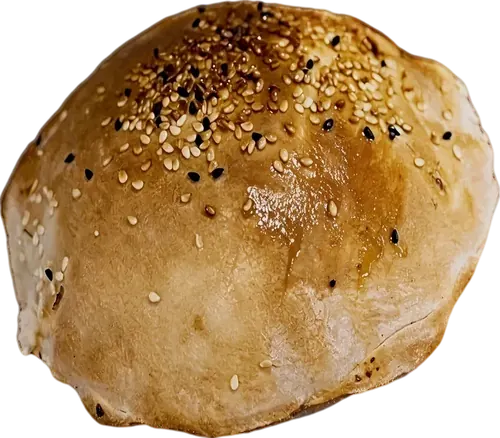
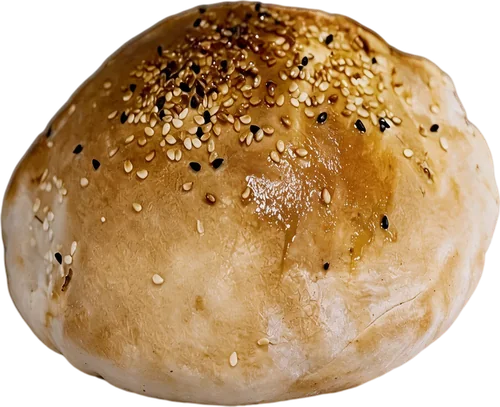
feat: alle neun Gerichte neu aufgenommen, Maeuler kleiner, Hierarchie gedreht
Karol am 07.09.: „bitte verbessere die Gerichte im Hintergrund einfach. Bitte,
bitte! … die Oefen koennte man vielleicht ein bisschen kleiner machen, damit
man die Produkte im Hintergrund ein bisschen mehr sieht … die Schriftart unter
den Oefen auch anpassen groessentechnisch."

DIE GERICHTE. Die restlichen sechs ueber `seedream_v5_pro` mit `is_inpaint`
und `remove_bg` neu aufgenommen. Vier auf Anhieb gut, zwei verworfen und neu
angesetzt:

    Produkt      Schaerfe        Kante       Farbabstand   Umriss-IoU
    zaatar-2     2676 -> 4285    49 % -> 49 %       13,0      99,6 %
    stapel       1732 -> 2269    62 % -> 52 %        8,3      89,4 %
    rolle        1676 -> 1722    49 % -> 39 %        5,9      94,2 %
    sesam         861 ->  957    47 % -> 47 %       20,3      99,7 %
    gebacken     1302 -> 1100    44 % -> 43 %       20,6      94,1 %

zaatar-2 im ersten Anlauf: Farbabstand 55,4, der Zaatar war dunkel und
fleckig geworden. Der zweite Wortlaut verbietet ausdruecklich „darken, patchy,
blotchy, specular highlight" und kommt auf 13,0 bei fast vervierfachter
Schaerfe.

`bleche` ist RAUS. Seine Quelle war ein misslungener Freisteller — das rechte
Blech zur Haelfte Ofeninneres. Zwei Anlaeufe machten daraus einmal ein
dupliziertes und einmal ein leeres Blech (IoU 65 % und 67 %). Wo die Vorlage
nicht traegt, hilft kein Modell; das Stueck war ohnehin eines der beiden
Nachzuegler. Bleiben neun plus vier Wiederholungen.
[…]

diff --git a/src/gebaecke.ts b/src/gebaecke.ts
@@ -150,12 +150,17 @@ export type Gebaeck = {
    * ═══ Und woher der Wert kommt ═══
    *
    * Nicht aus dem Gefuehl, sondern aus der GEMESSENEN Schaerfe des Fotos.
-   * Stand nach der Ueberarbeitung mit seedream am 07.09. (Laplace-Varianz im
+   * Stand nach der zweiten Runde mit seedream am 08.09. (Laplace-Varianz im
    * deckenden Bereich, bei gleicher Darstellgroesse):
    *
-   *     lahmacun 4551 · zaatar 3893 · zaatar-2 2676 · bleche 2168
-   *     fatayer 1858 · stapel 1732 · rolle 1676 · gebacken 1302
-   *     kaese 1143 · sesam 861
+   *     lahmacun 4551 · zaatar-2 4285 · zaatar 3893 · stapel 2269
+   *     fatayer 1858 · rolle 1722 · kaese 1143 · gebacken 1100 · sesam 957
+   *
+   * Alle NEUN sind inzwischen ueber `is_inpaint` neu aufgenommen. Das zehnte
+   * hiess `bleche` und ist RAUS: seine Quelle war ein misslungener Freisteller
+   * (das rechte Blech halb Ofeninneres), und zwei Anlaeufe haben daraus einmal
+   * ein dupliziertes und einmal ein leeres Blech gemacht. Wo die Vorlage nicht
+   * traegt, hilft kein Modell.
    *
    * Verteilt wird nach RANG, nicht nach Rohwert. Die vier ueberarbeiteten
    * Stuecke haben ihre Schaerfe verdoppelt bis vervierfacht; nach Rohwert
@@ -291,8 +296,8 @@ export const GEBAECKE: Gebaeck[] = [
     alt: 'Ein Fata’er von Aram, gewölbt und glänzend, dicht mit Sesam und Schwarzkümmel bestreut',
     li: 3,
     ob: 6,
-    gr: 21,
-    tiefe: 0.44,
+    gr: 20,
+    tiefe: 0.5,
     liM: 58,
     grM: 52,
     breite: 900,
@@ -316,12 +321,12 @@ export const GEBAECKE: Gebaeck[] = [
     alt: 'Ein goldbraun gebackenes gefuelltes Gebaeck von Aram, die Fuellung tritt an den Einschnitten hervor',
     li: 70,
     ob: 20,
-    gr: 18,
-    tiefe: 0.67,
+    gr: 19,
+    tiefe: 0.62,
     liM: 72,
     grM: 48,
-    breite: 780,
-    hoehe: 574,
+    breite: 900,
+    hoehe: 669,
     y: [0.34, -0.48],
     x: [0.03, -0.06],
     dreh: [25, -36],
@@ -362,8 +367,8 @@ export const GEBAECKE: Gebaeck[] = [
     alt: 'Ein Manakisch mit Zaatar, frisch aus dem Ofen',
     li: 78,
     ob: 48,
-    gr: 26,
-    tiefe: 0.11,
+    gr: 24,
+    tiefe: 0.25,
     liM: 76,
     grM: 38,
     breite: 900,
@@ -385,12 +390,12 @@ export const GEBAECKE: Gebaeck[] = [
     alt: 'Ein zweites Manakisch mit Zaatar',
     li: 4,
     ob: 62,
-    gr: 24,
-    tiefe: 0.22,
+    gr: 25,
+    tiefe: 0.12,
     liM: 74,
     grM: 36,
-    breite: 780,
-    hoehe: 691,
+    breite: 900,
+    hoehe: 850,
     y: [0.44, -0.22],
     x: [-0.03, 0.07],
     dreh: [-22, 45],
@@ -412,8 +417,8 @@ export const GEBAECKE: Gebaeck[] = [
     tiefe: 1.0,
     liM: 60,
     grM: 50,
-    breite: 780,
-    hoehe: 761,
+    breite: 900,
+    hoehe: 893,
     y: [0.4, -0.34],
     x: [0.04, -0.08],
     dreh: [31, -39],
@@ -431,12 +436,12 @@ export const GEBAECKE: Gebaeck[] = [
     alt: 'Ein flacher, goldbraun gebackener Fata’er mit Sesam',
     li: 34,
     ob: 84,
-    gr: 17,
-    tiefe: 0.78,
+    gr: 16,
+    tiefe: 0.88,
     liM: 78,
     grM: 34,
-    breite: 780,
-    hoehe: 684,
+    breite: 900,
+    hoehe: 733,
     y: [0.5, -0.2],
     x: [-0.06, 0.04],
     dreh: [-28, 34],
@@ -454,8 +459,8 @@ export const GEBAECKE: Gebaeck[] = [
     alt: 'Ein runder Fladen von Aram, dick mit geschmolzenem Kaese belegt',
     li: 84,
     ob: 92,
-    gr: 15,
-    tiefe: 0.89,
+    gr: 17,
+    tiefe: 0.75,
     liM: 56,
     grM: 48,
     breite: 875,
@@ -469,55 +474,20 @@ export const GEBAECKE: Gebaeck[] = [
     skala: [0.56, 0.72],
   },
   {
-    /* ═══ Zwei Stuecke mehr, und warum es nicht mehr wurden ═══
-
-       Karol am 07.09.: „wie wir da die ganzen einzelnen Produkte im
-       Hintergrund dazumachen." Ich habe alle 54 Freisteller aus ihrem
-       Material durchgemessen. Von den zwoelf schaerfsten sind die meisten
-       Ofeninnenraeume, Menschen oder misslungene Schnitte — brauchbar und neu
-       waren genau diese zwei. Die acht davor sind im Wesentlichen schon das
-       Beste, was Aram geliefert hat.
-
-       Mehr Dichte kommt deshalb nicht aus mehr Dateien, sondern aus der
-       Tiefe: was hinten fliegt, ist klein und unscharf, und dort faellt
-       weder eine schwache Aufnahme noch eine Wiederholung auf. */
-    id: 'bleche',
-    dampft: false,
-    name: 'Zwei Bleche',
-    bilder: ['/bilder/echt/schwarm-bleche.webp'],
-    echt: true,
-    alt: 'Zwei runde Bleche mit frisch gebackenem Gebäck aus dem Laden',
-    li: 46,
-    ob: 30,
-    gr: 23,
-    tiefe: 0.33,
-    liM: 64,
-    grM: 40,
-    breite: 780,
-    hoehe: 438,
-    y: [0.46, -0.3],
-    x: [0.05, -0.06],
-    dreh: [18, -14],
-    drehY: [24, -20],
-    drehX: [-9, 7],
-    z: [-190, 60],
-    skala: [0.9, 1.02],
-  },
-  {
     id: 'stapel',
-    dampft: false,
+    dampft: true,
     name: 'Fladenstapel',
     bilder: ['/bilder/echt/schwarm-stapel.webp'],
     echt: true,
     alt: 'Ein hoher Stapel gebackener Fladen aus der Backstube',
     li: 24,
     ob: 68,
-    gr: 20,
-    tiefe: 0.56,
+    gr: 22,
+    tiefe: 0.38,
     liM: 30,
     grM: 34,
-    breite: 438,
-    hoehe: 780,
+    breite: 518,
+    hoehe: 900,
     y: [0.42, -0.28],
     x: [-0.05, 0.05],
     dreh: [-12, 16],
@@ -621,8 +591,8 @@ export const GEBAECKE: Gebaeck[] = [
     nurBreit: true,
     liM: 50,
     grM: 30,
-    breite: 780,
-    hoehe: 574,
+    breite: 900,
+    hoehe: 669,
     y: [0.44, -0.29],
     x: [-0.04, 0.05],
     dreh: [-18, 14],

diff --git a/src/stile/sektionen.css b/src/stile/sektionen.css
@@ -1768,7 +1768,11 @@
  */
 .tor__maul {
   position: relative;
-  height: calc(var(--wand-hoehe, 34rem) * 0.74 * var(--anteil, 1));
+  /* 0,64 statt 0,74. Karol am 07.09.: „die Oefen koennte man vielleicht ein
+     bisschen kleiner machen, damit man die Produkte im Hintergrund ein
+     bisschen mehr sieht." Dreizehn Prozent weniger Hoehe geben rund ein
+     Viertel mehr freien Grund zwischen Kopfzeile und Theke. */
+  height: calc(var(--wand-hoehe, 34rem) * 0.64 * var(--anteil, 1));
   border-radius: var(--maul);
   overflow: clip;
   /* Das leere Maul ist dunkel. `--fuellung` kommt aus useOfenwand und nimmt
@@ -1889,7 +1893,10 @@
   left: -1rem;
   right: -1rem;
   bottom: -1.8rem;
-  height: 12rem;
+  /* Gemessen nach dem Verkleinern der Maeuler: die Fuesse stehen auf −139 px
+     zur Wandunterkante (vorher −151). 11,25 rem legen die Oberkante zwoelf
+     Pixel darueber — dieselbe Einbindung wie vorher. */
+  height: 11.25rem;
   z-index: -1;
   /**
    * Vier Schichten, alle SENKRECHT — und das ist der Grund.
@@ -1921,16 +1928,35 @@
   .tor:nth-child(even)::before { left: -0.8rem; right: -50vw; }
 }
 
+/**
+ * ═══ Die Ziffer ist ein Index, nicht die Botschaft ═══
+ *
+ * Karol am 07.09.: „die Schriftart unter den Oefen auch anpassen
+ * groessentechnisch."
+ *
+ * Sie stand bei bis zu 3,2 rem und damit mehr als doppelt so gross wie der
+ * Schrittname darunter. Die Hierarchie sagte also: die ZAHL ist die Sache.
+ * Das stimmt nicht — „Von Hand gerollt" ist die Sache, die 02 sagt nur, an
+ * welcher Stelle sie steht.
+ *
+ * Mobbin bestaetigt es zweimal. Samara setzt die Nummer als kleines Plaettchen
+ * ueber einer normal grossen Ueberschrift; der AI-Design-Report (schwarz auf
+ * Orange, fast unsere Palette) stellt Nummer und Wort auf DIESELBE Groesse.
+ * Beide machen die Ziffer klein oder gleich — keiner macht sie gross.
+ *
+ * Jetzt: Ziffer hoechstens 2 rem, Ueberschrift bis 1,75 rem. Der Abstand
+ * bleibt lesbar, die Reihenfolge stimmt wieder.
+ */
 .tor__zahl {
   display: block;
-  margin-bottom: 0.3rem;
+  margin-bottom: 0.35rem;
   color: var(--akzent);
   font-variant-numeric: tabular-nums;
   font-family: var(--font-display);
-  font-size: clamp(1.9rem, 1rem + 2.4vw, 3.2rem);
+  font-size: clamp(1.4rem, 1rem + 1.1vw, 2rem);
   font-weight: 700;
   line-height: 0.9;
-  letter-spacing: -0.02em;
+  letter-spacing: -0.01em;
 }
 /* Das Etikett bringt sonst einen Strich mit; vor einer Ziffer laese er sich
    als Minus. */
@@ -1940,19 +1966,22 @@
   margin: 0;
   font-family: var(--font-display);
   font-variation-settings: var(--wonk-klein);
-  /* Weiss auf Orange traegt erst ab 24 px. 1,5 rem statt einer Spanne, die
-     genau darunter endete. */
-  font-size: 1.5rem;
+  /* Die Untergrenze bleibt 1,5 rem = 24 px: Weiss auf Orange traegt erst ab
+     dort (gemessen 3,52 auf der Theke, Grenze fuer grosse Schrift ist 3,0).
+     Nach oben darf sie jetzt wachsen — der Platz kommt von der kleineren
+     Ziffer und den kleineren Maeulern. */
+  font-size: clamp(1.5rem, 1.25rem + 0.7vw, 1.75rem);
   font-weight: 600;
   line-height: 1.15;
   letter-spacing: -0.01em;
 }
 
 .tor__text {
-  margin: 0.35rem 0 0;
+  margin: 0.4rem 0 0;
   color: var(--tinte-leise);
   max-width: 26ch;
-  font-size: 0.95rem;
+  font-size: 0.92rem;
+  line-height: 1.5;
 }
 
 /* Der Dampf gehoert ueber die WAND, nicht in ein Maul: ein Ofen dampft, nicht
@@ -1982,10 +2011,20 @@
     grid-template-columns: repeat(2, minmax(0, 1fr));
     gap: clamp(0.9rem, 3vw, 1.5rem) clamp(0.75rem, 3vw, 1.25rem);
   }
-  .tor__maul { height: calc(var(--wand-hoehe, 30rem) * 0.34 * var(--anteil, 1)); }
-  .tor__zahl { font-size: clamp(1.5rem, 1rem + 2.6vw, 2.2rem); }
-  .tor__titel { font-size: 1.15rem; }
-  .tor__text { font-size: 0.9rem; }
+  .tor__maul { height: calc(var(--wand-hoehe, 30rem) * 0.3 * var(--anteil, 1)); }
+  .tor__zahl { font-size: clamp(1.2rem, 0.9rem + 1.4vw, 1.6rem); }
+  /**
+   * Am Handy ist die Ueberschrift kleiner als 24 px — damit gilt nicht mehr
+   * die Grenze fuer grosse Schrift (3,0), sondern die strenge (4,5). Weiss
+   * kommt auf der Theke auf 3,5 und faellt damit durch.
+   *
+   * Zwei Wege: die Schrift auf 24 px zwingen (in einer 169-px-Spalte wird
+   * daraus ein Wort je Zeile) oder die Farbe wechseln. Der Fliesston erreicht
+   * dort 5,3. Also die Farbe — auf einem Handy ist die Displayschrift ohnehin
+   * kein Auszeichnungsmittel mehr, sondern nur noch klein und hell.
+   */
+  .tor__titel { font-size: 1.1rem; color: var(--tinte); }
+  .tor__text { font-size: 0.85rem; }
   .prozess__dampf { top: -4%; height: 16%; }
 }
 

diff --git a/src/komponenten/Handarbeit.tsx b/src/komponenten/Handarbeit.tsx
@@ -271,8 +271,33 @@ function Gebaeckstueck({ g }: { g: Gebaeck }) {
       {/* HINTER dem Gebäck, nicht davor: Dampf vor dem Essen ist Nebel auf
           dem Teller. Die Leinwand ist breiter als das Gebäck und steht
           darüber — Dampf breitet sich aus, während er steigt. */}
-      {g.dampft && breit && g.tiefe < 0.45 ? (
-        <Dampf ton="ofen" klasse="gebaeck__dampf" dichte={4} />
+      {/* ═══ Wer dampft ═══
+
+          Karol am 07.09.: „die dann auch im Hintergrund jeweils dampfen. Das
+          ist ganz wichtig!"
+
+          Die Grenze lag bei tiefe 0,45 und traf damit nur drei Stücke. Jetzt
+          0,62: sechs der neun dampfen — alle, die vorne genug fliegen, um es
+          zu zeigen. Weiter hinten bleibt es aus, und das ist kein Sparen: bei
+          14 % Breite und 2 px Unschärfe ist eine Dampfwolke kein Dampf mehr,
+          sondern ein Fleck über einem Fleck.
+
+          Die Dichte ist dafür von 4 auf 3 Schwaden gesunken — als Vorsorge,
+          nicht auf Messung gestützt. Sechs Leinwände statt drei sind doppelt
+          so viel Rechenarbeit; drei Schwaden auf sechs Stücken ergeben 18
+          statt 12 Wolken, also MEHR sichtbaren Dampf bei anderthalbfacher
+          statt doppelter Last.
+
+          Belegen liess sich das am 08.09. nicht: die Maschine lief mit einer
+          Lastzahl von 21, und die Frame-Messungen stiegen von Lauf zu Lauf
+          (20,8 → 27,4 → 29,2 ms Median), ohne dass sich der Code änderte. Wer
+          das nachmessen will, muss es auf einer ruhigen Maschine tun.
+
+          Die Wiederholungen ganz hinten (`nurBreit`) tragen ohnehin
+          `dampft: false` — zweimal dasselbe Gericht mit zweimal derselben
+          Wolke wäre die Wiederholung, die die Tiefe gerade verbirgt. */}
+      {g.dampft && breit && g.tiefe < 0.62 ? (
+        <Dampf ton="ofen" klasse="gebaeck__dampf" dichte={3} />
       ) : null}
       <div className="gebaeck__folge" ref={folge}>
         {g.bilder.map((quelle, i) => (
